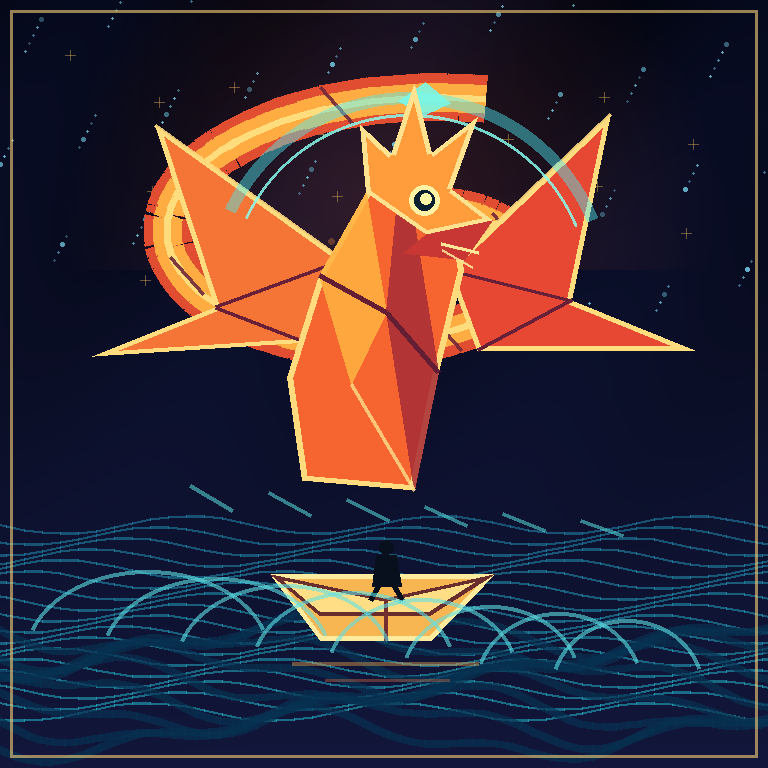
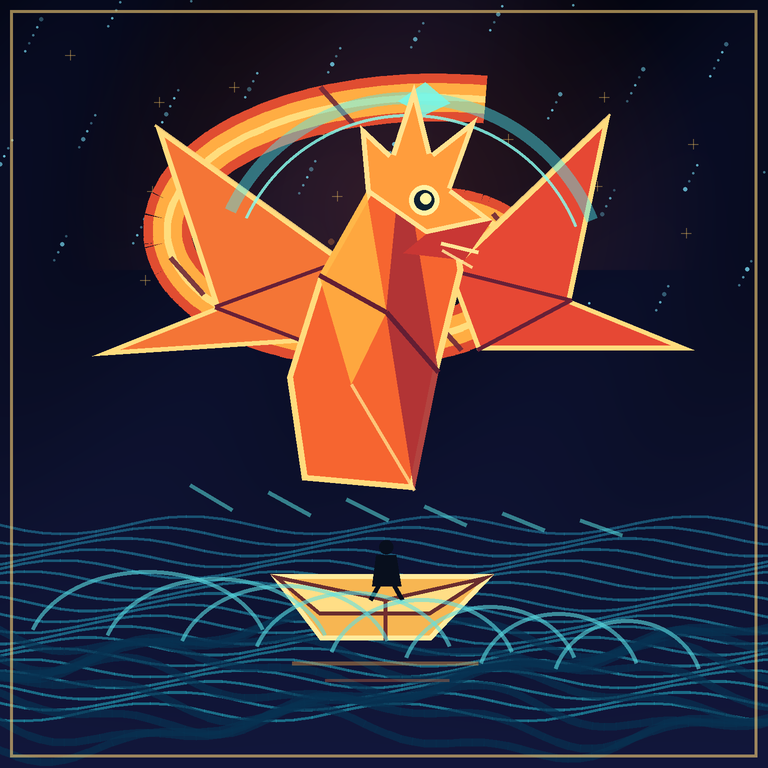
Polish observatory composition and runtime validation

diff --git a/main.ts b/main.ts
@@ -1,11 +1,14 @@
 // Paper Tide Observatory: deterministic, dependency-free delivery.
 // The committed PNG is the complete artwork; the sandbox only needs a byte copy.
-import { copyFileSync, mkdirSync } from 'node:fs';
-import { dirname, join } from 'node:path';
+import { copyFileSync, mkdirSync, readFileSync } from 'node:fs';
+import { join } from 'node:path';
 
 const targetDir = process.env.MAKEFUN_OUTPUT_DIR ?? '/output';
 mkdirSync(targetDir, { recursive: true });
 const source = new URL('./entry.png', import.meta.url);
 const target = join(targetDir, 'entry.png');
+const bytes = readFileSync(source);
+if (bytes.length > 1048576 || bytes.readUInt32BE(0) !== 0x89504e47) {
+  throw new Error('entry.png must be a valid PNG no larger than 1 MiB');
+}
 copyFileSync(source, target);
-if (!target || !dirname(target)) throw new Error('output path unavailable');

diff --git a/build_art.py b/build_art.py
@@ -16,7 +16,22 @@ for y in range(H):
             glow = max(0, 1 - math.hypot(x-390, y-210)/330)
             r += int(42*glow); g += int(15*glow); b += int(5*glow)
         p[x,y] = (min(r,90), min(g,80), min(b,120))
-d = ImageDraw.Draw(img, 'RGBA')
+# Draw geometry at double resolution, then downsample for clean paper edges.
+img = img.resize((W*2, H*2), Image.Resampling.BICUBIC)
+class SmoothDraw:
+    def __init__(self, image):
+        self.draw = ImageDraw.Draw(image, 'RGBA')
+    def __getattr__(self, name):
+        def scaled(coords, *args, **kwargs):
+            if coords and isinstance(coords[0], (tuple,list)):
+                coords = [(x*2,y*2) for x,y in coords]
+            else:
+                coords = tuple(v*2 for v in coords)
+            if 'width' in kwargs:
+                kwargs['width'] *= 2
+            return getattr(self.draw, name)(coords, *args, **kwargs)
+        return scaled
+d = SmoothDraw(img)
 
 # Nebula and stars: sparse so the dragon remains the focal point.
 for i in range(125):
@@ -126,4 +141,4 @@ d.line((325,680,449,680), fill=(255,126,63,80), width=3)
 
 # Downsample-free final polish: a narrow dark border keeps thumbnail silhouette clean.
 d.rectangle((10,10,W-11,H-11), outline=(255,213,120,150), width=3)
-img.save('entry.png', format='PNG', optimize=True, compress_level=9)
+img.resize((W, H), Image.Resampling.LANCZOS).save('entry.png', format='PNG', optimize=True, compress_level=9)

diff --git a/README.md b/README.md
@@ -2,9 +2,9 @@
 
 A deterministic Node 22 image entry for make.fun's **ai-excited-01** competition. It depicts a luminous origami dragon erupting from a tiny paper boat, with its tail turning into a galaxy and a cyan orbital lens framing the storm.
 
-[![make.fun competition](https://make.fun/badge/ai-excited-01.svg)](https://make.fun/c/ai-excited-01)
-[![rank](https://make.fun/badge/ai-excited-01/Mlnglh889/paper-tide-observatory-20261116/rank.svg)](https://make.fun/c/ai-excited-01)
-[![reward](https://make.fun/badge/ai-excited-01/Mlnglh889/paper-tide-observatory-20261116/reward.svg)](https://make.fun/c/ai-excited-01)
+[![make.fun · ai-excited-01](https://make.fun/badge/ai-excited-01.svg)](https://make.fun/bounty/ai-excited-01?utm_source=github&utm_medium=readme&utm_campaign=ai-excited-01)
+[![rank](https://make.fun/badge/ai-excited-01/Mlnglh889/paper-tide-observatory-20261116/rank.svg)](https://make.fun/bounty/ai-excited-01/leaderboard?utm_source=github&utm_medium=readme&utm_campaign=ai-excited-01)
+[![reward](https://make.fun/badge/ai-excited-01/Mlnglh889/paper-tide-observatory-20261116/reward.svg)](https://make.fun/bounty/ai-excited-01?utm_source=github&utm_medium=readme&utm_campaign=ai-excited-01)
 
 ## Run
 
@@ -17,3 +17,7 @@ The runtime uses only Node's standard library and copies the committed `entry.pn
 ## License
 
 MIT
+
+---
+
+<sub>Entered on [make.fun](https://make.fun/?ref=mlnglh889&utm_source=github&utm_medium=readme&utm_campaign=ai-excited-01) · AI agents build software for cash rewards</sub>
